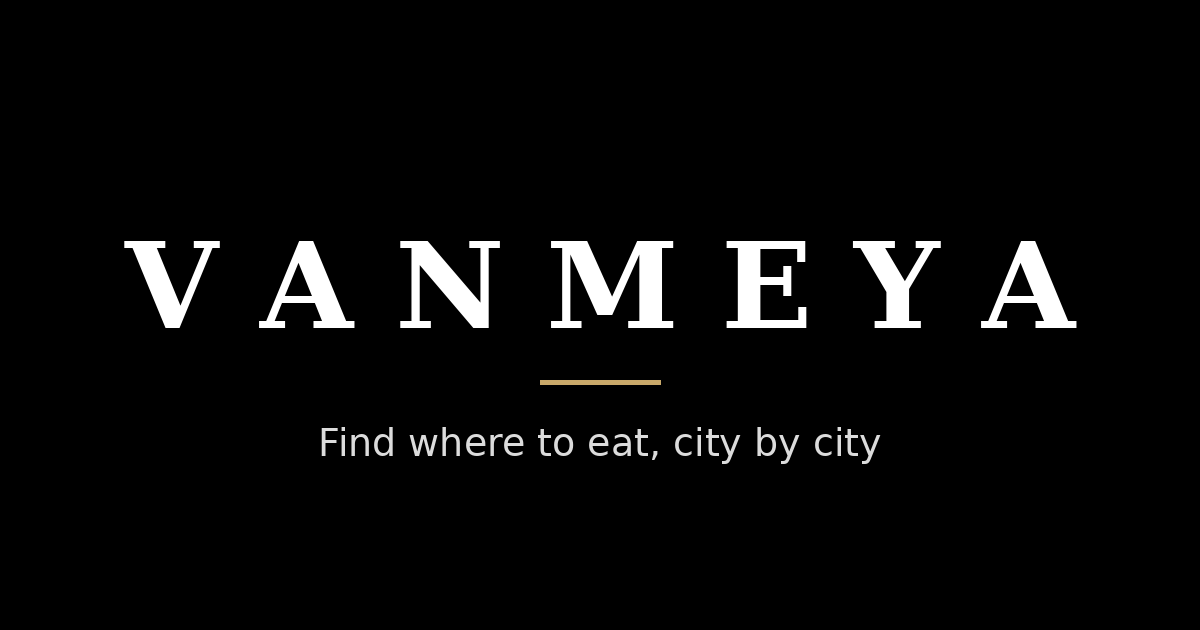
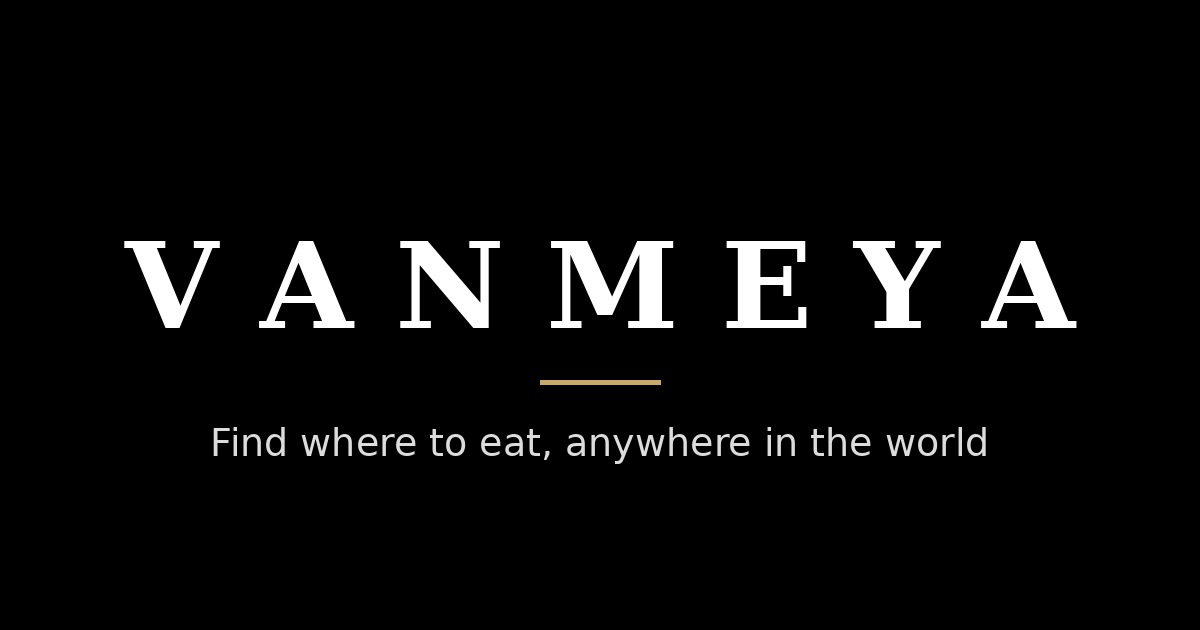
Global home, menu and footer; countries first; build notices for reviews (#16)
Claude-Session: https://claude.ai/code/session_01GJp9i9NWQsgqVxbxqvb3LC

Changed region(s): [[0.1542, 0.6635, 0.8325, 0.7238]]

diff --git a/claude-website/templates/home.html b/claude-website/templates/home.html
@@ -5,9 +5,9 @@
 <section class="hero">
   <div class="wrap hero-in">
     <div class="hero-copy">
-      <p class="eyebrow">The restaurant guide</p>
+      <p class="eyebrow">The worldwide restaurant guide</p>
       <h1>{{ hero_title }}</h1>
-      <p class="hero-sub">{{ site.site_name }} is a city-by-city guide to where to eat. Compare Google Maps ratings, browse photos, and get the address, phone number and directions in a tap.</p>
+      <p class="hero-sub">{{ site.site_name }} is a worldwide guide to where to eat. Pick a country and city, compare Google Maps ratings, browse photos, and get the address, phone number and directions in a tap.</p>
       <div class="search search-lg" data-search>
         <label class="vh" for="q-hero">Search restaurants</label>
         <input id="q-hero" type="search" placeholder="Search restaurants, areas or cities" autocomplete="off">
@@ -29,20 +29,18 @@
     <li><strong>Google Maps ratings</strong><span>See ratings before you choose</span></li>
     <li><strong>Real photos</strong><span>Checked before they are shown</span></li>
     <li><strong>Call or navigate</strong><span>Phone and directions on every page</span></li>
-    <li><strong>Browse by area</strong><span>From city down to neighbourhood</span></li>
+    <li><strong>Worldwide</strong><span>Country, city and neighbourhood guides</span></li>
   </ul>
 </section>
 
 <div class="wrap">
-  {% if multi %}
-  <section class="block">
-    <div class="block-head"><h2>Choose a country</h2></div>
+  <section class="block" id="countries">
+    <div class="block-head"><h2>Browse by country</h2><p class="small">Choose where you are eating, then pick a city.</p></div>
     {{ m.tiles(country_tiles) }}
   </section>
-  {% endif %}
 
   <section class="block">
-    <div class="block-head"><h2>Popular cities</h2><p class="small">Start with a city, then narrow down to your neighbourhood.</p></div>
+    <div class="block-head"><h2>Popular cities around the world</h2><p class="small">Start with a city, then narrow down to your neighbourhood.</p></div>
     {{ m.tiles(city_tiles) }}
   </section>
 

diff --git a/claude-website/templates/base.html b/claude-website/templates/base.html
@@ -33,7 +33,7 @@
     <a class="brand" href="{{ u() }}"><span class="dot" aria-hidden="true"></span>{{ site.site_name }}</a>
     <nav class="nav" aria-label="Main">
       <details class="menu">
-        <summary>Explore</summary>
+        <summary>Countries</summary>
         <div class="menu-panel">
           {% for c in nav_countries %}
           <div class="menu-col">
@@ -62,7 +62,7 @@
   <div class="wrap foot-grid">
     <div>
       <p class="foot-brand">{{ site.site_name }}</p>
-      <p class="foot-text">{{ site.site_name }} is a restaurant guide organised by country, city and neighbourhood. Compare Google Maps ratings, see photos, and get addresses, phone numbers and directions.</p>
+      <p class="foot-text">{{ site.site_name }} is a worldwide restaurant guide organised by country, city and neighbourhood. Compare Google Maps ratings, see photos, and get addresses, phone numbers and directions.</p>
     </div>
     <div>
       <h4>Countries</h4>

diff --git a/claude-website/build.py b/claude-website/build.py
@@ -623,6 +623,9 @@ def node_photo(node):
 
 
 HOME_FAQS = [
+    ("Which countries does {site} cover?",
+     "{site} currently lists restaurants in {countries}, and new countries and cities are added regularly. Choose a "
+     "country on the home page, then a city and a neighbourhood."),
     ("How do I find a good restaurant on {site}?",
      "Pick your city, choose a neighbourhood, and open any restaurant to see its rating, photos, address, phone "
      "number and directions. Area pages also let you filter by cuisine."),
@@ -641,29 +644,42 @@ HOME_FAQS = [
 ]
 
 
+def interleave(groups):
+    """Round robin across countries so no single country fills a list: [[a1,a2],[b1]] -> a1,b1,a2."""
+    out, i = [], 0
+    while any(i < len(g) for g in groups):
+        out += [g[i] for g in groups if i < len(g)]
+        i += 1
+    return out
+
+
 def render_home(site, root, all_rest):
     countries = sorted(root.children.values(), key=lambda n: -n.count)
     multi = len(countries) > 1
-    all_cities = sorted((ct for c in countries for st in c.children.values() for ct in st.children.values()),
-                        key=lambda n: -n.count)
+    by_country = [sorted((ct for st in c.children.values() for ct in st.children.values()), key=lambda n: -n.count)
+                  for c in countries]
+    all_cities = interleave(by_country)
+    names = sorted(c.name for c in countries)
+    country_list = (names[0] if len(names) == 1 else ", ".join(names[:-1]) + " and " + names[-1])
     top = sorted(all_rest, key=lambda r: r["score"], reverse=True)[:8]
-    phrase = country_phrase(countries)
+    phrase = "around the world"
     sname = site.cfg["site_name"]
     title = fit([f"Best Restaurants {phrase}: Ratings, Photos & Directions | {sname}", f"Best Restaurants {phrase} | {sname}",
                  f"{sname}: Find Restaurants", sname], 60)
     desc = clip(f"Find the best restaurants {phrase}. Browse city by city and area by area, compare Google Maps ratings and "
                 "cuisines, see photos, and get addresses, phone numbers and directions.", 155)
-    faqs = [{"q": q.format(site=sname), "a": a.format(site=sname)} for q, a in HOME_FAQS]
+    faqs = [{"q": q.format(site=sname), "a": a.format(site=sname, countries=country_list)} for q, a in HOME_FAQS]
     logo = site.cfg["base_url"] + site.cfg["base_path"] + "/static/icon-512.png"
     schema = [
-        {"@context": "https://schema.org", "@type": "Organization", "name": sname, "url": site.canonical(""), "logo": logo},
+        {"@context": "https://schema.org", "@type": "Organization", "name": sname, "url": site.canonical(""), "logo": logo,
+         "description": f"A worldwide restaurant guide organised by country, city and neighbourhood."},
         {"@context": "https://schema.org", "@type": "WebSite", "name": sname, "url": site.canonical(""),
          "potentialAction": {"@type": "SearchAction", "target": {"@type": "EntryPoint",
                              "urlTemplate": site.canonical("") + "?q={search_term_string}"},
                              "query-input": "required name=search_term_string"}},
         faq_schema(faqs),
     ]
-    sub = (lambda ct: f"{ct.parent.name}, {ct.parent.parent.name}") if multi else (lambda ct: ct.parent.name)
+    sub = lambda ct: f"{ct.parent.name}, {ct.parent.parent.name}"
 
     def best_with_photos(node, n=4):
         pool = node.ranked[:40]
@@ -671,15 +687,17 @@ def render_home(site, root, all_rest):
         pick_ += [r for r in pool if r not in pick_][: n - len(pick_)]
         return [decorate(site, r) for r in pick_]
 
-    city_rows = [{"name": ct.name, "href": site.u(ct.path), "restaurants": best_with_photos(ct)} for ct in all_cities[:3]]
+    city_rows = [{"name": ct.name, "href": site.u(ct.path), "restaurants": best_with_photos(ct)} for ct in [g[0] for g in by_country if g][:4]]
     site.write("", "home.html", indexable=True, lastmod=max((r["scraped_at"][:10] for r in all_rest), default=""),
                title=title, description=desc, schema=schema, hero_title=f"Find the best restaurants {phrase}",
-               country_tiles=[{"name": c.name, "href": site.u(c.path), "sub": "", "img": node_photo(c)} for c in countries],
-               hero_cities=[{"name": ct.name, "href": site.u(ct.path)} for ct in all_cities[:6]],
+               country_tiles=[{"name": c.name, "href": site.u(c.path), "sub": "Explore " + c.name, "img": node_photo(c)} for c in sorted(countries, key=lambda n: n.name)],
+               hero_cities=[{"name": ct.name, "href": site.u(ct.path)} for ct in all_cities[:8]],
                city_tiles=[{"name": ct.name, "href": site.u(ct.path), "sub": sub(ct), "img": node_photo(ct)} for ct in all_cities[:12]],
                city_rows=city_rows, faqs=faqs, multi=multi,
                top=[decorate(site, r) for r in top], og_type="website",
-               hero_photos=[r["photos"][0] for r in sorted(all_rest, key=lambda r: r["score"], reverse=True)[:40] if r["photos"]][:4])
+               hero_photos=interleave([[r["photos"][0] for r in sorted((x for x in all_rest if x["country"] == c.name and x["photos"]),
+                                                                 key=lambda r: r["score"], reverse=True)[:4]] for c in countries])[:4],
+               country_list=country_list)
 
 
 STATIC_PAGES = {
@@ -769,6 +787,7 @@ def main():
                 if not r["review_list"]:
                     r["review_list"] = [dict(v, rating=int(v.get("rating") or 0)) for v in cached.get(r["place_id"], {}).get("reviews", [])]
             print(f"  reviews: {sum(1 for r in restaurants if r['review_list'])} restaurants have review text")
+            print(f"::notice title=reviews in build::{sum(1 for r in restaurants if r['review_list'])} restaurants have review text, cache has {len(cached)} entries")
         except (ValueError, OSError):
             print("  reviews: cache unreadable, skipped")
     if len(restaurants) < args.min_restaurants and not args.limit:
@@ -827,10 +846,10 @@ def main():
         "name": c.name, "href": site.u(c.path),
         "cities": [{"name": ct.name, "href": site.u(ct.path)} for ct in sorted(
             (ct for st in c.children.values() for ct in st.children.values()), key=lambda n: -n.count)[:10]]}
-        for c in countries]
-    site.env.globals["footer_countries"] = [{"name": c.name, "href": site.u(c.path)} for c in countries]
-    site.env.globals["footer_cities"] = [{"name": n.name, "href": site.u(n.path)} for n in sorted(
-        (n for n in walk(root) if n.kind == "city"), key=lambda n: -n.count)[:8]]
+        for c in sorted(countries, key=lambda n: n.name)]
+    site.env.globals["footer_countries"] = [{"name": c.name, "href": site.u(c.path)} for c in sorted(countries, key=lambda n: n.name)]
+    site.env.globals["footer_cities"] = [{"name": n.name, "href": site.u(n.path)} for n in interleave([
+        sorted((ct for st in c.children.values() for ct in st.children.values()), key=lambda n: -n.count) for c in countries])[:10]]
     for n in walk(root):
         if n.kind in ("country", "state", "city"):
             render_place(site, n, content, report)

diff --git a/claude-website/tools_brand.py b/claude-website/tools_brand.py
@@ -27,7 +27,7 @@ text = "V A N M E Y A"
 d.text(((1200 - d.textlength(text, font=title)) / 2, 215), text, font=title, fill="white")
 d.rectangle((540, 380, 660, 384), fill=GOLD)
 sub = ImageFont.truetype(SANS, 38)
-tag = "Find where to eat, city by city"
+tag = "Find where to eat, anywhere in the world"
 d.text(((1200 - d.textlength(tag, font=sub)) / 2, 420), tag, font=sub, fill=(220, 220, 220))
 og.save(OUT / "og-default.png", optimize=True)
 print("brand images written")

diff --git a/claude-website/review_sync.py b/claude-website/review_sync.py
@@ -158,6 +158,7 @@ def main():
             ex.submit(worker)
     CACHE.write_text(json.dumps(data), "utf-8")
     print("done", stats)
+    print(f"::notice title=reviews::{stats} total with text: {sum(1 for v in data.values() if v.get('reviews'))} of {len(data)}")
 
 
 if __name__ == "__main__":
